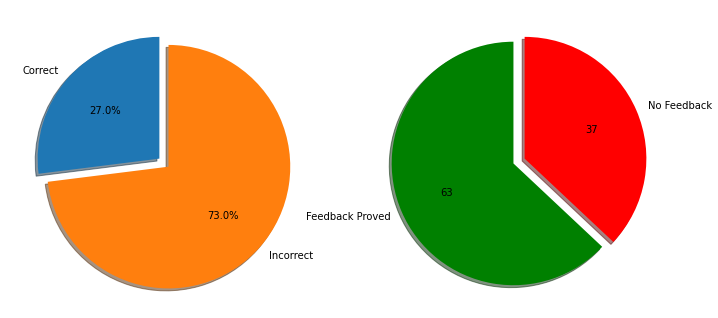
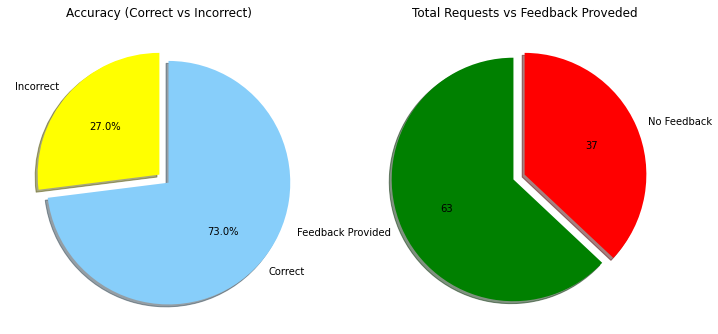
Added graph

diff --git a/examples/stateful-feedback/basic-metrics/README.md b/examples/stateful-feedback/basic-metrics/README.md
@@ -10,6 +10,11 @@
 * Request logger
 * Model with request logger
 
+By the end we will be able to see real time metrics for ml metrics as follows:
+![](README_files/README_49_0.png)
+
+We also cover approaches to extend for advanced types of custom metrics, as well as real time monitoring of metrics with prometheus. 
+
 #### Istio
 
 
@@ -643,10 +648,12 @@ no_feedback = es_count["count"] - feedback_total
 
 plt.subplots(figsize=(12, 6))
 plt.subplot(1, 2, 1)
-plt.pie([feedback_incorrect, feedback_correct], explode=(0, 0.1), labels=('Correct', 'Incorrect'), autopct='%1.1f%%', shadow=True, startangle=90)
+plt.title("Accuracy (Correct vs Incorrect)")
+plt.pie([feedback_incorrect, feedback_correct], explode=(0, 0.1), labels=('Incorrect', 'Correct'), autopct='%1.1f%%', shadow=True, startangle=90, colors=['yellow', 'lightskyblue'])  
 
 plt.subplot(1, 2, 2)
-plt.pie([feedback_total, no_feedback], explode=(0.1, 0), labels=('Feedback Proved', 'No Feedback'), autopct='%.0f', shadow=True, startangle=90, colors=['green', 'red'])
+plt.title("Total Requests vs Feedback Proveded")
+plt.pie([feedback_total, no_feedback], explode=(0.1, 0), labels=('Feedback Provided', 'No Feedback'), autopct='%.0f', shadow=True, startangle=90, colors=['green', 'red'])
 
 plt.show()
 ```
